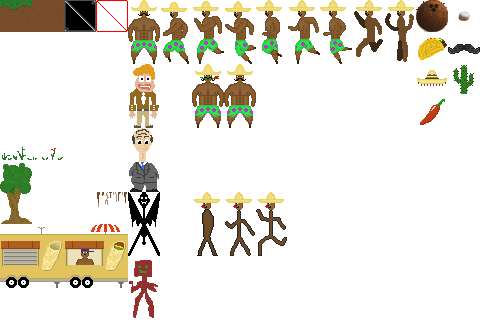
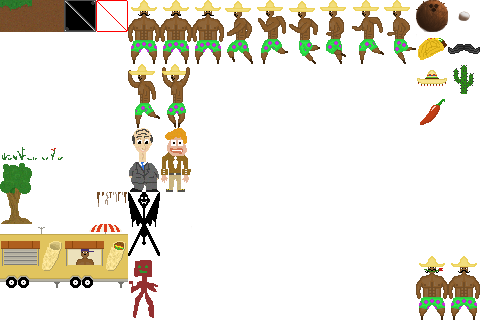
Pedro visar sina moves!

Changed region(s): [[0.25, 0.0, 0.875, 0.625], [0.4062, 0.5938, 0.5938, 0.8125], [0.8438, 0.7812, 1.0, 1.0]]

diff --git a/tempo_tutorial/src/tempo_tutorial/Animation.java b/tempo_tutorial/src/tempo_tutorial/Animation.java
@@ -10,7 +10,8 @@ public class Animation {
     private Player player;
     private ArrayList<BufferedImage> images;
     private int ticks = 0;
-    private int currentImage;
+    private int interval = 6;
+    private int currentImage, startImage, endImage;
     
     /**
      * Deklarerar player
@@ -27,7 +28,7 @@ public class Animation {
      * @param images bilder som skapar animation
      */
     
-    public void setCurrentAnimation(BufferedImage ... images) {
+    public void setAnimation(BufferedImage ... images) {
         //Nollställer värden
         currentImage = 0;
         this.images.clear();
@@ -44,10 +45,10 @@ public class Animation {
     public void tick() {
         
         //Var sjätte tick ska animationen gå till nästa bild i arrayen
-        if(++ticks == 6)  {
+        if(++ticks >= interval)  {
             //Om vi är på sista bilden på spring-animationen, börja om
-            if (currentImage == images.size() - 3) {
-                currentImage = 0;
+            if (currentImage > endImage || currentImage <= startImage) {
+                currentImage = startImage;
             }
             
             //Byt till nästa bild på player
@@ -58,27 +59,32 @@ public class Animation {
             ticks = 0;
         }
         
+        startImage = 0;
+        endImage = 5;
+        interval = 6;
+        
         //Om player står still på marken, sätts inaktiv bild istället för spring-animation
         if (!player.getMovingLeft() && !player.getMovingRight()) {
-            if (ticks == 5) {
-                currentImage = 6;
-                player.setImage(this.images.get(currentImage));
-                currentImage = 0;
-                ticks = 0;
-            }
+            startImage = 6;
+            endImage = 8;
+            interval = 10;
         }
         
         //Om player är i luften, sätts hopp- eller fall-bild efter villkor istället för spring-animation
-        if (player.getJumps() < 2) {
-            if (player.getJumping()) currentImage = 7;
-            if (player.getFalling()) currentImage = 8;
-            
-            //Applicera image
-            player.setImage(this.images.get(currentImage));
-            
-            //Ställ om animation ifall spring-animation ska köras härnäst
-            currentImage = 0;
+        if (player.getJumps() < 1) {
+            if (player.getJumping()) {
+                startImage = 9;
+                endImage = 9;
+            } 
+            if (player.getFalling()) {
+                startImage = 10;
+                endImage = 10;
+            }
         }
     }
     
+    public void setInterval(int i) {
+        interval = i;
+        ticks = 0;
+    }
 }

diff --git a/tempo_tutorial/src/tempo_tutorial/GamePanel.java b/tempo_tutorial/src/tempo_tutorial/GamePanel.java
@@ -6,6 +6,7 @@ import java.awt.Graphics;
 import java.awt.Graphics2D;
 import java.awt.Rectangle;
 import java.awt.Color;
+import java.awt.image.BufferedImage;
 import java.util.ArrayList;
 import javax.swing.JPanel;
 import tempo_tutorial.sprite.Background;
@@ -25,7 +26,7 @@ public class GamePanel extends JPanel {
         ss = new Spritesheet();
         player = new Player(Tempo_tutorial.WIDTH/2, Tempo_tutorial.HEIGHT/2, BLOCK_SIZE, BLOCK_SIZE * 2, ss.getSprite(4, 0, 1, 2), 10, 3, 10);
         player.createAnimation();
-        player.getAnimation().setCurrentAnimation(ss.getSprite(5, 0, 1, 2), ss.getSprite(6, 0, 1, 2), ss.getSprite(7, 0, 1, 2), ss.getSprite(8, 0, 1, 2), ss.getSprite(9, 0, 1, 2), ss.getSprite(10, 0, 1, 2), ss.getSprite(4, 0, 1, 2), ss.getSprite(11, 0, 1, 2), ss.getSprite(12, 0, 1, 2));
+        player.getAnimation().setAnimation(/*Running (0-5)*/ getPS(7,0), getPS(8,0), getPS(9,0), getPS(10,0), getPS(11,0), getPS(12,0), /*Idle (6-8)*/ getPS(4,0), getPS(5,0), getPS(6,0), /*Jumping (9)*/ getPS(4,2), /*Falling (10)*/ getPS(5,2));
         level = new Level(ss,"level",BLOCK_SIZE);
         background.add(new Background(0.1f,200,230,Tempo_tutorial.WIDTH,Tempo_tutorial.HEIGHT,ss.getImage("src/resources/pics/mountains_final1.png"),player));
         background.add(new Background(0.2f,200,230,Tempo_tutorial.WIDTH,Tempo_tutorial.HEIGHT,ss.getImage("src/resources/pics/clouds.png"),player));
@@ -73,6 +74,11 @@ public class GamePanel extends JPanel {
     private void resetTranslate(Graphics2D g2){  
         Rectangle r = g2.getClipBounds();
         g2.translate(r.x, r.y);
+    }
+    
+    //PS = Player-Sprite
+    private BufferedImage getPS(int x, int y) {
+        return ss.getSprite(x, y, 1, 2);
     }
 
 }

diff --git a/tempo_tutorial/src/tempo_tutorial/Keyboard.java b/tempo_tutorial/src/tempo_tutorial/Keyboard.java
@@ -37,9 +37,15 @@ public class Keyboard implements KeyListener{
             case KeyEvent.VK_W:
             case KeyEvent.VK_SPACE:
                 if(gp.getPlayer().getJumps() > 0 ){
-                    gp.getPlayer().setVelocityY(-22f);
+                    gp.getPlayer().setVelocityY(-35f);
                     gp.getPlayer().setJumps(gp.getPlayer().getJumps()-1);
                 }
+            break;
+            
+            case KeyEvent.VK_P:
+                gp.getPlayer().getAnimation().setInterval(2);
+                gp.getPlayer().setVelocityX(20);
+            break;
      
         }
     }
@@ -47,13 +53,18 @@ public class Keyboard implements KeyListener{
     @Override
     public void keyReleased(KeyEvent e) {
         switch(e.getKeyCode()){
-                case KeyEvent.VK_A:
-                    gp.getPlayer().setMovingLeft(false);
-                break;
-                
-                case KeyEvent.VK_D:
-                    gp.getPlayer().setMovingRight(false);
-                break;
+            case KeyEvent.VK_A:
+                gp.getPlayer().setMovingLeft(false);
+            break;
+
+            case KeyEvent.VK_D:
+                gp.getPlayer().setMovingRight(false);
+            break;
+
+            case KeyEvent.VK_P:
+                gp.getPlayer().getAnimation().setInterval(6);
+                gp.getPlayer().setVelocityX(10);
+            break;
         }
     }
     

diff --git a/tempo_tutorial/src/tempo_tutorial/sprite/Player.java b/tempo_tutorial/src/tempo_tutorial/sprite/Player.java
@@ -9,7 +9,7 @@ import tempo_tutorial.Animation;
 public class Player extends Sprite {
     private boolean movingLeft, movingRight, jumping, falling, flipped;
     private Animation animation;
-    private int jumps = 2;
+    private int jumps = 1;
 
     
     public Player(int x, int y, int width, int height, BufferedImage image, float dx, float dy, float gravity) {
@@ -38,11 +38,13 @@ public class Player extends Sprite {
         //Om hastigheten är riktad uppåt, hoppar player
         if(super.getVelocityY() < 0) {
             jumping = true;
+            falling = false;
         }
         
         //Om hastigheten är riktad mycket nedåt, faller player
-        if(super.getVelocityY() > 17.5) {
+        if(super.getVelocityY() > 0) {
             falling = true;
+            jumping = false;
         }
         
     }

diff --git a/tempo_tutorial/src/tempo_tutorial/GameEngine.java b/tempo_tutorial/src/tempo_tutorial/GameEngine.java
@@ -89,7 +89,7 @@ public class GameEngine implements Runnable{
                 if(coll.getTopCollision(gp.getPlayer().getRectangle(),gp.getLevel().getBlocks().get(i).getRectangle()) && gp.getPlayer().getVelocityY() > 0){
                     gp.getPlayer().setGravity(0);
                     gp.getPlayer().setVelocityY(0);
-                    gp.getPlayer().setJumps(2);
+                    gp.getPlayer().setJumps(1);
                     gp.getPlayer().setFalling(false);
                     break;
                 } else if(coll.getBottomCollision(gp.getPlayer().getRectangle(),gp.getLevel().getBlocks().get(i).getRectangle()) && gp.getPlayer().getVelocityY() < 0){
